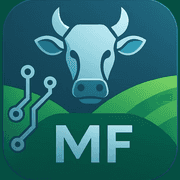
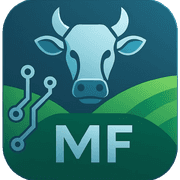
refactor: 4t try

diff --git a/pwa-assets.config.ts b/pwa-assets.config.ts
@@ -10,14 +10,16 @@ export default defineConfig({
 			sizes: [512],
 			padding: 0,
 			resizeOptions: {
-				background: '#054F41',
+				background: 'transparent',
+				fit: 'cover',
 			},
 		},
 		apple: {
 			sizes: [180],
 			padding: 0,
 			resizeOptions: {
-				background: '#054F41',
+				background: 'transparent',
+				fit: 'cover',
 			},
 		},
 	},
